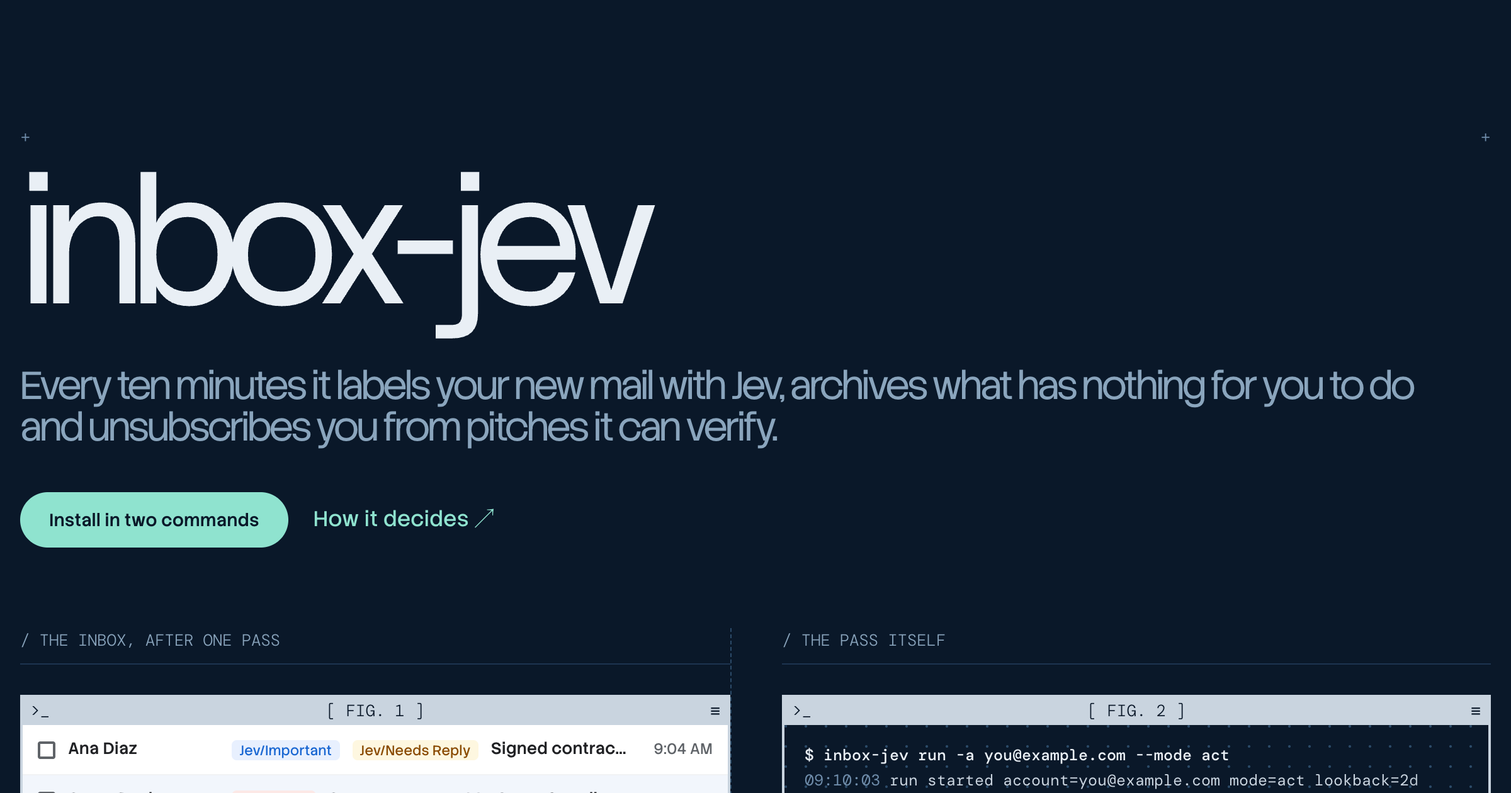
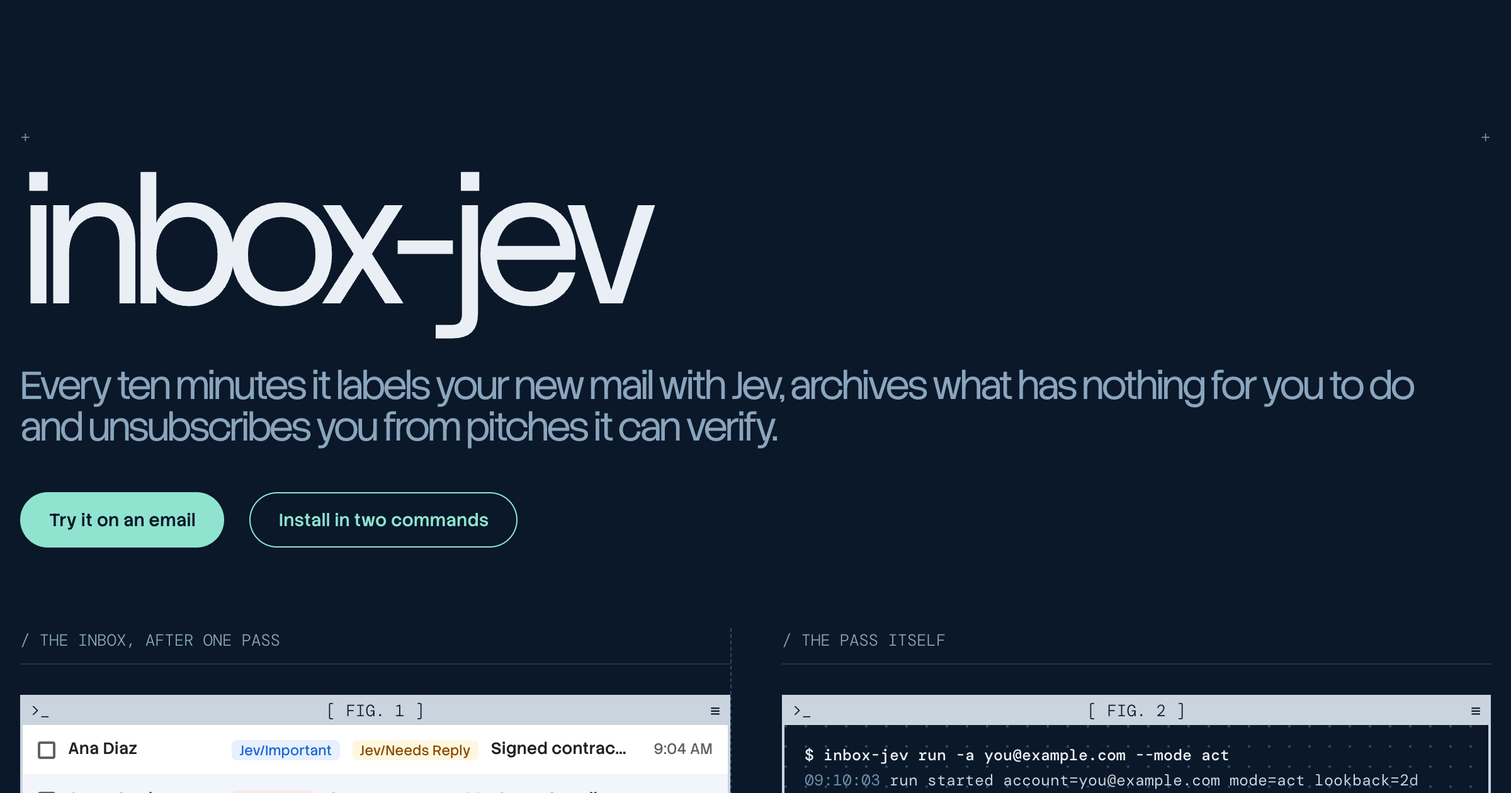
The playground comes first
Try it is the hero action, the first nav chip and menu item, and the section sits before How it decides.

Claude-Session: https://claude.ai/code/session_017roiReRvLyRGdbZz8rWyRh

Changed region(s): [[0.0312, 0.619, 0.3438, 0.7119]]

diff --git a/src/template.src.html b/src/template.src.html
@@ -77,7 +77,9 @@ code { font-family: var(--mono); font-size: 0.92em; }
 .nav a, .nav button.nav-k { display: inline-flex; align-items: center; min-height: 26px; padding: 0 8px; background: var(--surface-2); color: var(--accent); border-radius: 2px; text-decoration: none; transition: background-color var(--t-hover) ease, color var(--t-hover) ease; }
 .nav a .k, .nav button.nav-k .k { opacity: 0.75; margin-right: 6px; }
 .nav .sp { flex: 1; }
-@media (hover: hover) and (pointer: fine) { .nav a:hover, .nav button.nav-k:hover { background: var(--accent); color: var(--accent-ink); } }
+.nav a.hot { background: var(--accent); color: var(--accent-ink); }
+.nav a.hot .k { opacity: 0.9; }
+@media (hover: hover) and (pointer: fine) { .nav a:hover, .nav button.nav-k:hover { background: var(--accent); color: var(--accent-ink); } .nav a.hot:hover { background: #b4f0e1; } }
 
 /* Hero */
 .hero { position: relative; padding-block: 48px 36px; }
@@ -455,8 +457,8 @@ footer.is-decided .giant { color: var(--muted); transform: translateX(2%); }
 
 <nav class="wrap nav" aria-label="Page">
   <span class="mark" aria-hidden="true"></span>
+  <a class="hot" href="#try" data-key="t"><span class="k">[T]</span>Try it</a>
   <a href="#how" data-key="h"><span class="k">[H]</span>How it decides</a>
-  <a href="#try" data-key="t"><span class="k">[T]</span>Try it</a>
   <a href="#does" data-key="w"><span class="k">[W]</span>What it does</a>
   <a href="#categories" data-key="c"><span class="k">[C]</span>Categories</a>
   <a href="#questions" data-key="q"><span class="k">[Q]</span>Questions</a>
@@ -476,8 +478,8 @@ footer.is-decided .giant { color: var(--muted); transform: translateX(2%); }
   <h1 data-rise style="--i:0">inbox-jev</h1>
   <p class="sub" data-rise style="--i:1">Every ten minutes it labels your new mail with Jev, archives what has nothing for you to do and unsubscribes you from pitches it can verify.</p>
   <div class="actions" data-rise style="--i:2">
-    <a class="pill primary" href="#install">Install in two commands</a>
-    <a class="link" href="#how">How it decides</a>
+    <a class="pill primary" href="#try">Try it on an email</a>
+    <a class="pill" href="#install">Install in two commands</a>
   </div>
 
   <div class="pair" style="margin-top:64px">
@@ -529,45 +531,16 @@ footer.is-decided .giant { color: var(--muted); transform: translateX(2%); }
   </div>
 </section>
 
-<!-- ============================ How it decides ============================ -->
-<section class="block" id="how">
-  <div class="wrap">
-    <div class="label"><span>How it decides</span><span>Fig. 3</span></div>
-    <div class="head">
-      <h2 data-rise style="--i:0">How it decides<span class="count">(8)</span></h2>
-      <p data-rise style="--i:1">Every email goes through the same steps. The eight in the figure are worked examples from the spec, and each one is also a test that runs the real code. Pick one and follow it to what Gmail shows afterwards.</p>
-    </div>
-    <figure class="flowfig" data-rise style="--i:2">
-      <div class="win"><div class="win-bar"><span>&gt;_</span><span>[ FIG. 3 ] THE PER-EMAIL PIPELINE</span><span class="r">&#8801;</span></div><div class="win-body">
-      <!--DIAGRAM-DESKTOP-->
-      <!--DIAGRAM-PHONE-->
-      </div>
-      <div class="verdict" aria-live="polite">
-        <div><p class="v-subj" id="v-subj">Re: quick question about your pipeline · sam@growthagency.example</p><p class="v-title" id="v-title">Archived with Jev/Outreach, unsubscribed with one click</p></div>
-        <div><p class="v-body" id="v-body">Jev says cold outreach at 0.96, above the 0.90 bar. The sender passes DMARC in Gmail's own headers, the email has a List-Unsubscribe header, the sender isn't a group or anyone you have written to, and the account is in act mode, so one POST with List-Unsubscribe=One-Click (RFC 8058) ends the sequence.</p><p class="v-ref" id="v-ref">Spec example EX-04. A test with the same id runs the real code.</p></div>
-      </div></div>
-      <figcaption>The spec's per-email pipeline, with its two flowcharts drawn as one. Allowlisted senders and senders with a rule never reach Jev. The unsubscribe gate sits on the two bottom archive rows and is spelled out under "What it does".</figcaption>
-    </figure>
-    <div class="after">
-      <div class="steps">
-        <div data-rise style="--i:1"><div class="label"><span>Your rules first</span></div><h3>Your rules decide first</h3><p>An allowlisted sender, or a sender with a rule, is decided without asking Jev. Rules come from your corrections, from <code>rules set</code>, or appear on their own after Jev has answered the same category three times at 0.95 or more.</p></div>
-        <div data-rise style="--i:2"><div class="label"><span>Then Jev</span></div><h3>Jev reads the headers and the first lines</h3><p>It also gets the domains the links point to, Gmail's own SPF, DKIM and DMARC verdicts, and whether you have ever written to the sender. It never gets a full URL, and the body is never stored. It answers with one category and how sure it is.</p></div>
-        <div data-rise style="--i:3"><div class="label"><span>Then policy</span></div><h3>The confidence picks the action</h3><p>If it reaches the category's bar, that category's action runs. If several archive categories add up to 0.90, the email is archived under the strongest of them. Anything else stays in the inbox with Jev/Review.</p></div>
-      </div>
-    </div>
-  </div>
-</section>
-
 <!-- ============================ Playground ============================ -->
 <section class="block" id="try">
   <div class="wrap">
-    <div class="label"><span>Playground</span><span>Fig. 4</span></div>
+    <div class="label"><span>Playground</span><span>Fig. 3</span></div>
     <div class="head">
       <h2 data-rise style="--i:0">Try it on an email<span class="count">(live)</span></h2>
       <p data-rise style="--i:1">Paste an email, or take a sample, and the published package decides it here the way a pass would: the headers' signals, what Jev gets, Jev's answer and the policy's verdict, for an inbox with no rules and the default categories. What you paste goes to a function on this site and on to TypeSafe under the author's key, and is not stored. Each visitor gets fifty cents of Jev, a few thousand emails.</p>
     </div>
     <figure class="win try" data-ui style="margin:0">
-      <div class="win-bar"><span>&gt;_</span><span>[ FIG. 4 ]</span><span class="r">&#8801;</span></div>
+      <div class="win-bar"><span>&gt;_</span><span>[ FIG. 3 ]</span><span class="r">&#8801;</span></div>
       <div class="win-body">
         <form class="try-in" id="try-form" novalidate>
           <div class="try-samples" role="group" aria-label="Sample emails">
@@ -586,6 +559,35 @@ footer.is-decided .giant { color: var(--muted); transform: translateX(2%); }
         <div class="try-out" id="try-out" aria-live="polite"><p class="t-empty">Nothing decided yet. Take a sample or paste an email, then ask Jev.</p></div>
       </div>
     </figure>
+  </div>
+</section>
+
+<!-- ============================ How it decides ============================ -->
+<section class="block" id="how">
+  <div class="wrap">
+    <div class="label"><span>How it decides</span><span>Fig. 4</span></div>
+    <div class="head">
+      <h2 data-rise style="--i:0">How it decides<span class="count">(8)</span></h2>
+      <p data-rise style="--i:1">Every email goes through the same steps. The eight in the figure are worked examples from the spec, and each one is also a test that runs the real code. Pick one and follow it to what Gmail shows afterwards.</p>
+    </div>
+    <figure class="flowfig" data-rise style="--i:2">
+      <div class="win"><div class="win-bar"><span>&gt;_</span><span>[ FIG. 4 ] THE PER-EMAIL PIPELINE</span><span class="r">&#8801;</span></div><div class="win-body">
+      <!--DIAGRAM-DESKTOP-->
+      <!--DIAGRAM-PHONE-->
+      </div>
+      <div class="verdict" aria-live="polite">
+        <div><p class="v-subj" id="v-subj">Re: quick question about your pipeline · sam@growthagency.example</p><p class="v-title" id="v-title">Archived with Jev/Outreach, unsubscribed with one click</p></div>
+        <div><p class="v-body" id="v-body">Jev says cold outreach at 0.96, above the 0.90 bar. The sender passes DMARC in Gmail's own headers, the email has a List-Unsubscribe header, the sender isn't a group or anyone you have written to, and the account is in act mode, so one POST with List-Unsubscribe=One-Click (RFC 8058) ends the sequence.</p><p class="v-ref" id="v-ref">Spec example EX-04. A test with the same id runs the real code.</p></div>
+      </div></div>
+      <figcaption>The spec's per-email pipeline, with its two flowcharts drawn as one. Allowlisted senders and senders with a rule never reach Jev. The unsubscribe gate sits on the two bottom archive rows and is spelled out under "What it does".</figcaption>
+    </figure>
+    <div class="after">
+      <div class="steps">
+        <div data-rise style="--i:1"><div class="label"><span>Your rules first</span></div><h3>Your rules decide first</h3><p>An allowlisted sender, or a sender with a rule, is decided without asking Jev. Rules come from your corrections, from <code>rules set</code>, or appear on their own after Jev has answered the same category three times at 0.95 or more.</p></div>
+        <div data-rise style="--i:2"><div class="label"><span>Then Jev</span></div><h3>Jev reads the headers and the first lines</h3><p>It also gets the domains the links point to, Gmail's own SPF, DKIM and DMARC verdicts, and whether you have ever written to the sender. It never gets a full URL, and the body is never stored. It answers with one category and how sure it is.</p></div>
+        <div data-rise style="--i:3"><div class="label"><span>Then policy</span></div><h3>The confidence picks the action</h3><p>If it reaches the category's bar, that category's action runs. If several archive categories add up to 0.90, the email is archived under the strongest of them. Anything else stays in the inbox with Jev/Review.</p></div>
+      </div>
+    </div>
   </div>
 </section>
 
@@ -740,7 +742,7 @@ footer.is-decided .giant { color: var(--muted); transform: translateX(2%); }
     <ul class="c1"><li>Project</li><li><a href="https://github.com/hellolitebox/litebox-inbox-jev">GitHub</a></li><li><a href="https://pypi.org/project/inbox-jev/">PyPI</a></li><li><a href="https://github.com/hellolitebox/litebox-inbox-jev/issues">Issues</a></li><li><a href="https://github.com/hellolitebox/litebox-inbox-jev/blob/main/LICENSE">MIT licence</a></li></ul>
     <ul class="c2"><li>Read</li><li><a href="https://github.com/hellolitebox/litebox-inbox-jev/blob/main/docs/guide.md">The plain-language guide</a></li><li><a href="https://github.com/hellolitebox/litebox-inbox-jev/blob/main/docs/how-it-decides.md">How it decides</a></li><li><a href="https://github.com/hellolitebox/litebox-inbox-jev/blob/main/docs/decisions/README.md">Decision records</a></li><li><a href="https://github.com/hellolitebox/litebox-inbox-jev/blob/main/docs/operations.md">Operations</a></li></ul>
     <ul class="c3"><li>Commands</li><li><code>inbox-jev run</code></li><li><code>inbox-jev digest</code></li><li><code>inbox-jev restore</code></li><li><code>inbox-jev rules set</code></li></ul>
-    <ul class="c4"><li>On this page</li><li><a href="#how">How it decides</a></li><li><a href="#categories">Categories</a></li><li><a href="#questions">Questions</a></li><li><a href="#install">Install</a></li></ul>
+    <ul class="c4"><li>On this page</li><li><a href="#try">Try it</a></li><li><a href="#how">How it decides</a></li><li><a href="#categories">Categories</a></li><li><a href="#questions">Questions</a></li><li><a href="#install">Install</a></li></ul>
     <div class="contact"><p>Built by <a href="https://guillermogonzalezaleman.com" style="color:var(--accent);text-decoration:none">Guille Gonzalez Aleman</a></p><p>Classifier: <a href="https://typesafe.ai" style="color:var(--accent);text-decoration:none">TypeSafe Jev</a></p></div>
   </div>
   <div class="foot-last"><p>© 2026 Litebox · MIT licence</p><div class="gh" aria-label="inbox-jev on GitHub"><a class="pill" href="https://github.com/hellolitebox/litebox-inbox-jev"><svg viewBox="0 0 16 16" width="14" height="14" aria-hidden="true"><path d="M8 1.6l2 4.1 4.5.6-3.3 3.2.8 4.5L8 11.9 4 14l.8-4.5-3.3-3.2 4.5-.6z" fill="none" stroke="currentColor" stroke-width="1.3" stroke-linejoin="round"/></svg>Star<b class="cnt" data-count="stargazers_count" hidden></b></a><a class="pill" href="https://github.com/hellolitebox/litebox-inbox-jev/fork"><svg viewBox="0 0 16 16" width="14" height="14" aria-hidden="true"><g fill="none" stroke="currentColor" stroke-width="1.3"><circle cx="4" cy="3.2" r="1.6"/><circle cx="12" cy="3.2" r="1.6"/><circle cx="8" cy="12.8" r="1.6"/><path d="M4 4.8v1.4c0 1 .8 1.8 1.8 1.8h4.4c1 0 1.8-.8 1.8-1.8V4.8M8 8v3.2"/></g></svg>Fork<b class="cnt" data-count="forks_count" hidden></b></a><a class="pill" href="https://github.com/hellolitebox/litebox-inbox-jev/issues"><svg viewBox="0 0 16 16" width="14" height="14" aria-hidden="true"><circle cx="8" cy="8" r="6.2" fill="none" stroke="currentColor" stroke-width="1.3"/><circle cx="8" cy="8" r="1.3" fill="currentColor"/></svg>Issues<b class="cnt" data-count="open_issues_count" hidden></b></a></div></div>
@@ -1062,13 +1064,13 @@ footer.is-decided .giant { color: var(--muted); transform: translateX(2%); }
     if (!isMac) document.querySelectorAll('.nav .k-desk').forEach(function (el) { el.textContent = '[Ctrl K]'; });
     var REPO = 'https://github.com/hellolitebox/litebox-inbox-jev';
     var ITEMS = [
-      { g: 'Sections', n: 'Top', s: 'inbox-jev', k: '', href: '#top', q: 'home start hero' },
-      { g: 'Sections', n: 'How it decides', s: 'The pipeline, eight worked examples', k: 'H', href: '#how' },
       { g: 'Sections', n: 'Try it', s: 'Paste an email, Jev decides it live', k: 'T', href: '#try', q: 'playground classify test' },
+      { g: 'Sections', n: 'How it decides', s: 'The pipeline, eight worked examples', k: 'H', href: '#how' },
       { g: 'Sections', n: 'What it does', s: 'Labels, archive, unsubscribe, corrections, digest, undo', k: 'W', href: '#does' },
       { g: 'Sections', n: 'Categories', s: 'The eight defaults and their bars', k: 'C', href: '#categories', q: 'labels yaml' },
       { g: 'Sections', n: 'Questions', s: 'Before you let it touch your mail', k: 'Q', href: '#questions', q: 'faq safety never' },
       { g: 'Sections', n: 'Install', s: 'Two commands', k: 'I', href: '#install', q: 'setup pip uv' },
+      { g: 'Sections', n: 'Top', s: 'inbox-jev', k: '', href: '#top', q: 'home start hero' },
       { g: 'Actions', n: 'Copy the install command', s: 'uv tool install inbox-jev && inbox-jev init', k: '', run: 'copy', q: 'clipboard' },
       { g: 'Actions', n: 'Try a cold pitch', s: 'Loads a sample into the playground', k: '', run: 'sample', q: 'playground demo' },
       { g: 'Actions', n: 'Star it on GitHub', s: 'Opens the repo', k: '', href: REPO, q: 'github' },

diff --git a/index.html b/index.html
@@ -93,7 +93,9 @@ code { font-family: var(--mono); font-size: 0.92em; }
 .nav a, .nav button.nav-k { display: inline-flex; align-items: center; min-height: 26px; padding: 0 8px; background: var(--surface-2); color: var(--accent); border-radius: 2px; text-decoration: none; transition: background-color var(--t-hover) ease, color var(--t-hover) ease; }
 .nav a .k, .nav button.nav-k .k { opacity: 0.75; margin-right: 6px; }
 .nav .sp { flex: 1; }
-@media (hover: hover) and (pointer: fine) { .nav a:hover, .nav button.nav-k:hover { background: var(--accent); color: var(--accent-ink); } }
+.nav a.hot { background: var(--accent); color: var(--accent-ink); }
+.nav a.hot .k { opacity: 0.9; }
+@media (hover: hover) and (pointer: fine) { .nav a:hover, .nav button.nav-k:hover { background: var(--accent); color: var(--accent-ink); } .nav a.hot:hover { background: #b4f0e1; } }
 
 /* Hero */
 .hero { position: relative; padding-block: 48px 36px; }
@@ -472,8 +474,8 @@ footer.is-decided .giant { color: var(--muted); transform: translateX(2%); }
 <body>
 <nav class="wrap nav" aria-label="Page">
   <span class="mark" aria-hidden="true"></span>
+  <a class="hot" href="#try" data-key="t"><span class="k">[T]</span>Try it</a>
   <a href="#how" data-key="h"><span class="k">[H]</span>How it decides</a>
-  <a href="#try" data-key="t"><span class="k">[T]</span>Try it</a>
   <a href="#does" data-key="w"><span class="k">[W]</span>What it does</a>
   <a href="#categories" data-key="c"><span class="k">[C]</span>Categories</a>
   <a href="#questions" data-key="q"><span class="k">[Q]</span>Questions</a>
@@ -493,8 +495,8 @@ footer.is-decided .giant { color: var(--muted); transform: translateX(2%); }
   <h1 data-rise style="--i:0">inbox-jev</h1>
   <p class="sub" data-rise style="--i:1">Every ten minutes it labels your new mail with Jev, archives what has nothing for you to do and unsubscribes you from pitches it can verify.</p>
   <div class="actions" data-rise style="--i:2">
-    <a class="pill primary" href="#install">Install in two commands</a>
-    <a class="link" href="#how">How it decides</a>
+    <a class="pill primary" href="#try">Try it on an email</a>
+    <a class="pill" href="#install">Install in two commands</a>
   </div>
 
   <div class="pair" style="margin-top:64px">
@@ -570,16 +572,47 @@ footer.is-decided .giant { color: var(--muted); transform: translateX(2%); }
   </div>
 </section>
 
+<!-- ============================ Playground ============================ -->
+<section class="block" id="try">
+  <div class="wrap">
+    <div class="label"><span>Playground</span><span>Fig. 3</span></div>
+    <div class="head">
+      <h2 data-rise style="--i:0">Try it on an email<span class="count">(live)</span></h2>
+      <p data-rise style="--i:1">Paste an email, or take a sample, and the published package decides it here the way a pass would: the headers' signals, what Jev gets, Jev's answer and the policy's verdict, for an inbox with no rules and the default categories. What you paste goes to a function on this site and on to TypeSafe under the author's key, and is not stored. Each visitor gets fifty cents of Jev, a few thousand emails.</p>
+    </div>
+    <figure class="win try" data-ui style="margin:0">
+      <div class="win-bar"><span>&gt;_</span><span>[ FIG. 3 ]</span><span class="r">&#8801;</span></div>
+      <div class="win-body">
+        <form class="try-in" id="try-form" novalidate>
+          <div class="try-samples" role="group" aria-label="Sample emails">
+            <button type="button" class="pill" data-sample="pitch">A cold pitch</button>
+            <button type="button" class="pill" data-sample="receipt">A receipt</button>
+            <button type="button" class="pill" data-sample="phish">A fake reply</button>
+            <button type="button" class="pill" data-sample="newsletter">A newsletter</button>
+          </div>
+          <textarea id="try-raw" rows="14" spellcheck="false" autocomplete="off" aria-label="The email" placeholder="Paste an email here. Best with its headers: in Gmail, open the message, then ⋮ → Show original → Copy to clipboard. Plain text works too, without the sender checks."></textarea>
+          <div class="try-row">
+            <label class="try-check"><input type="checkbox" id="try-wrote"> I have written to this sender</label>
+            <button type="submit" class="pill primary" id="try-go">Ask Jev</button>
+          </div>
+          <p class="try-note" id="try-note">Checking the budget</p>
+        </form>
+        <div class="try-out" id="try-out" aria-live="polite"><p class="t-empty">Nothing decided yet. Take a sample or paste an email, then ask Jev.</p></div>
+      </div>
+    </figure>
+  </div>
+</section>
+
 <!-- ============================ How it decides ============================ -->
 <section class="block" id="how">
   <div class="wrap">
-    <div class="label"><span>How it decides</span><span>Fig. 3</span></div>
+    <div class="label"><span>How it decides</span><span>Fig. 4</span></div>
     <div class="head">
       <h2 data-rise style="--i:0">How it decides<span class="count">(8)</span></h2>
       <p data-rise style="--i:1">Every email goes through the same steps. The eight in the figure are worked examples from the spec, and each one is also a test that runs the real code. Pick one and follow it to what Gmail shows afterwards.</p>
     </div>
     <figure class="flowfig" data-rise style="--i:2">
-      <div class="win"><div class="win-bar"><span>&gt;_</span><span>[ FIG. 3 ] THE PER-EMAIL PIPELINE</span><span class="r">&#8801;</span></div><div class="win-body">
+      <div class="win"><div class="win-bar"><span>&gt;_</span><span>[ FIG. 4 ] THE PER-EMAIL PIPELINE</span><span class="r">&#8801;</span></div><div class="win-body">
       <svg class="flow flow-desktop" viewBox="0 0 1200 490" role="img" aria-label="Eight real emails traced through inbox-jev: your rules decide first, the rest go to Jev, then policy turns Jev's confidence into an action.">
   <text x="0" y="22" class="cap">Eight emails from the spec · pick one</text>
   <text x="960" y="22" class="cap">Stays in the inbox</text>
@@ -780,37 +813,6 @@ footer.is-decided .giant { color: var(--muted); transform: translateX(2%); }
         <div data-rise style="--i:3"><div class="label"><span>Then policy</span></div><h3>The confidence picks the action</h3><p>If it reaches the category's bar, that category's action runs. If several archive categories add up to 0.90, the email is archived under the strongest of them. Anything else stays in the inbox with Jev/Review.</p></div>
       </div>
     </div>
-  </div>
-</section>
-
-<!-- ============================ Playground ============================ -->
-<section class="block" id="try">
-  <div class="wrap">
-    <div class="label"><span>Playground</span><span>Fig. 4</span></div>
-    <div class="head">
-      <h2 data-rise style="--i:0">Try it on an email<span class="count">(live)</span></h2>
-      <p data-rise style="--i:1">Paste an email, or take a sample, and the published package decides it here the way a pass would: the headers' signals, what Jev gets, Jev's answer and the policy's verdict, for an inbox with no rules and the default categories. What you paste goes to a function on this site and on to TypeSafe under the author's key, and is not stored. Each visitor gets fifty cents of Jev, a few thousand emails.</p>
-    </div>
-    <figure class="win try" data-ui style="margin:0">
-      <div class="win-bar"><span>&gt;_</span><span>[ FIG. 4 ]</span><span class="r">&#8801;</span></div>
-      <div class="win-body">
-        <form class="try-in" id="try-form" novalidate>
-          <div class="try-samples" role="group" aria-label="Sample emails">
-            <button type="button" class="pill" data-sample="pitch">A cold pitch</button>
-            <button type="button" class="pill" data-sample="receipt">A receipt</button>
-            <button type="button" class="pill" data-sample="phish">A fake reply</button>
-            <button type="button" class="pill" data-sample="newsletter">A newsletter</button>
-          </div>
-          <textarea id="try-raw" rows="14" spellcheck="false" autocomplete="off" aria-label="The email" placeholder="Paste an email here. Best with its headers: in Gmail, open the message, then ⋮ → Show original → Copy to clipboard. Plain text works too, without the sender checks."></textarea>
-          <div class="try-row">
-            <label class="try-check"><input type="checkbox" id="try-wrote"> I have written to this sender</label>
-            <button type="submit" class="pill primary" id="try-go">Ask Jev</button>
-          </div>
-          <p class="try-note" id="try-note">Checking the budget</p>
-        </form>
-        <div class="try-out" id="try-out" aria-live="polite"><p class="t-empty">Nothing decided yet. Take a sample or paste an email, then ask Jev.</p></div>
-      </div>
-    </figure>
   </div>
 </section>
 
@@ -1040,7 +1042,7 @@ processed=30 would_archive=19 would_unsubscribe=3 review=2</pre></div></figure>
     <ul class="c1"><li>Project</li><li><a href="https://github.com/hellolitebox/litebox-inbox-jev">GitHub</a></li><li><a href="https://pypi.org/project/inbox-jev/">PyPI</a></li><li><a href="https://github.com/hellolitebox/litebox-inbox-jev/issues">Issues</a></li><li><a href="https://github.com/hellolitebox/litebox-inbox-jev/blob/main/LICENSE">MIT licence</a></li></ul>
     <ul class="c2"><li>Read</li><li><a href="https://github.com/hellolitebox/litebox-inbox-jev/blob/main/docs/guide.md">The plain-language guide</a></li><li><a href="https://github.com/hellolitebox/litebox-inbox-jev/blob/main/docs/how-it-decides.md">How it decides</a></li><li><a href="https://github.com/hellolitebox/litebox-inbox-jev/blob/main/docs/decisions/README.md">Decision records</a></li><li><a href="https://github.com/hellolitebox/litebox-inbox-jev/blob/main/docs/operations.md">Operations</a></li></ul>
     <ul class="c3"><li>Commands</li><li><code>inbox-jev run</code></li><li><code>inbox-jev digest</code></li><li><code>inbox-jev restore</code></li><li><code>inbox-jev rules set</code></li></ul>
-    <ul class="c4"><li>On this page</li><li><a href="#how">How it decides</a></li><li><a href="#categories">Categories</a></li><li><a href="#questions">Questions</a></li><li><a href="#install">Install</a></li></ul>
+    <ul class="c4"><li>On this page</li><li><a href="#try">Try it</a></li><li><a href="#how">How it decides</a></li><li><a href="#categories">Categories</a></li><li><a href="#questions">Questions</a></li><li><a href="#install">Install</a></li></ul>
     <div class="contact"><p>Built by <a href="https://guillermogonzalezaleman.com" style="color:var(--accent);text-decoration:none">Guille Gonzalez Aleman</a></p><p>Classifier: <a href="https://typesafe.ai" style="color:var(--accent);text-decoration:none">TypeSafe Jev</a></p></div>
   </div>
   <div class="foot-last"><p>© 2026 Litebox · MIT licence</p><div class="gh" aria-label="inbox-jev on GitHub"><a class="pill" href="https://github.com/hellolitebox/litebox-inbox-jev"><svg viewBox="0 0 16 16" width="14" height="14" aria-hidden="true"><path d="M8 1.6l2 4.1 4.5.6-3.3 3.2.8 4.5L8 11.9 4 14l.8-4.5-3.3-3.2 4.5-.6z" fill="none" stroke="currentColor" stroke-width="1.3" stroke-linejoin="round"/></svg>Star<b class="cnt" data-count="stargazers_count" hidden></b></a><a class="pill" href="https://github.com/hellolitebox/litebox-inbox-jev/fork"><svg viewBox="0 0 16 16" width="14" height="14" aria-hidden="true"><g fill="none" stroke="currentColor" stroke-width="1.3"><circle cx="4" cy="3.2" r="1.6"/><circle cx="12" cy="3.2" r="1.6"/><circle cx="8" cy="12.8" r="1.6"/><path d="M4 4.8v1.4c0 1 .8 1.8 1.8 1.8h4.4c1 0 1.8-.8 1.8-1.8V4.8M8 8v3.2"/></g></svg>Fork<b class="cnt" data-count="forks_count" hidden></b></a><a class="pill" href="https://github.com/hellolitebox/litebox-inbox-jev/issues"><svg viewBox="0 0 16 16" width="14" height="14" aria-hidden="true"><circle cx="8" cy="8" r="6.2" fill="none" stroke="currentColor" stroke-width="1.3"/><circle cx="8" cy="8" r="1.3" fill="currentColor"/></svg>Issues<b class="cnt" data-count="open_issues_count" hidden></b></a></div></div>
@@ -1362,13 +1364,13 @@ processed=30 would_archive=19 would_unsubscribe=3 review=2</pre></div></figure>
     if (!isMac) document.querySelectorAll('.nav .k-desk').forEach(function (el) { el.textContent = '[Ctrl K]'; });
     var REPO = 'https://github.com/hellolitebox/litebox-inbox-jev';
     var ITEMS = [
-      { g: 'Sections', n: 'Top', s: 'inbox-jev', k: '', href: '#top', q: 'home start hero' },
-      { g: 'Sections', n: 'How it decides', s: 'The pipeline, eight worked examples', k: 'H', href: '#how' },
       { g: 'Sections', n: 'Try it', s: 'Paste an email, Jev decides it live', k: 'T', href: '#try', q: 'playground classify test' },
+      { g: 'Sections', n: 'How it decides', s: 'The pipeline, eight worked examples', k: 'H', href: '#how' },
       { g: 'Sections', n: 'What it does', s: 'Labels, archive, unsubscribe, corrections, digest, undo', k: 'W', href: '#does' },
       { g: 'Sections', n: 'Categories', s: 'The eight defaults and their bars', k: 'C', href: '#categories', q: 'labels yaml' },
       { g: 'Sections', n: 'Questions', s: 'Before you let it touch your mail', k: 'Q', href: '#questions', q: 'faq safety never' },
       { g: 'Sections', n: 'Install', s: 'Two commands', k: 'I', href: '#install', q: 'setup pip uv' },
+      { g: 'Sections', n: 'Top', s: 'inbox-jev', k: '', href: '#top', q: 'home start hero' },
       { g: 'Actions', n: 'Copy the install command', s: 'uv tool install inbox-jev && inbox-jev init', k: '', run: 'copy', q: 'clipboard' },
       { g: 'Actions', n: 'Try a cold pitch', s: 'Loads a sample into the playground', k: '', run: 'sample', q: 'playground demo' },
       { g: 'Actions', n: 'Star it on GitHub', s: 'Opens the repo', k: '', href: REPO, q: 'github' },
